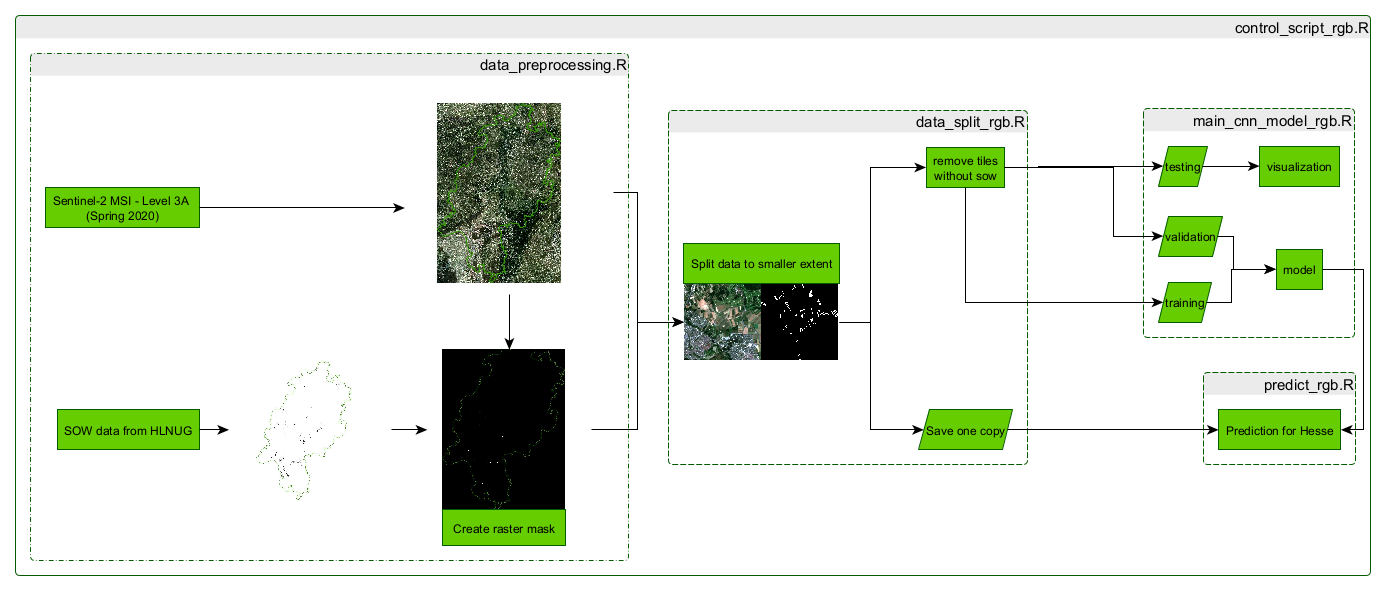
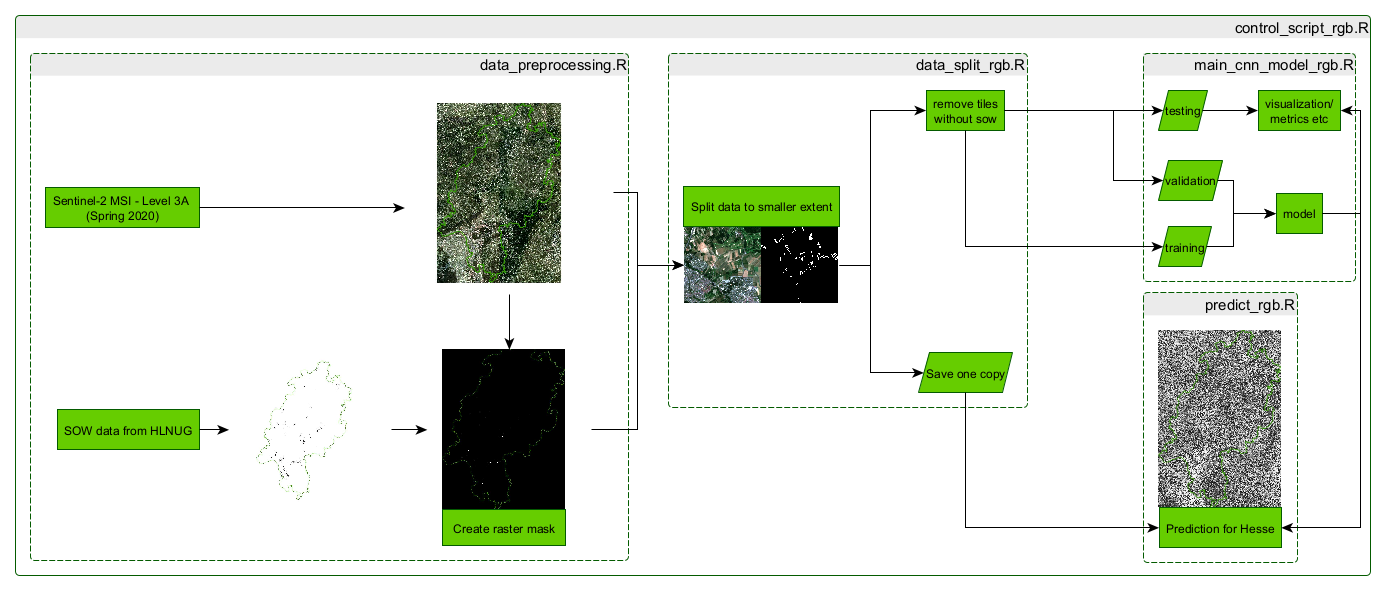
Improved readme & test

diff --git a/README.md b/README.md
@@ -1,7 +1,9 @@
 # Detection of traditional orchards meadows in Hesse, Germany via CNN & remote sensing data
-Attempt to detect traditional orchard meadows (ger. Streuosbtwiesen) 
+Attempt to detect traditional orchard meadows (ger. Streuosbtwiesen). Traditional orchard meadows are standard fruit trees scattered on a meadow, pasture or more rarely arable land. Characteristic fruit varieties are apple, pear, plum and sweet cherry. Today traditional orchard meadows are managed extensive and without fertilizers. Due to the composition of vigorous, young, old trees and deadwood traditional orchard meadows habitat for a wide variation of animals and plants. In the state of Hesse (Germany) these landscape elements or more specific traditional orchard meadows with uniquely attributes are sanctuary. 
 
-# To Do
+<img src="https://www.nabu.de/imperia/md/nabu/images/natur-landschaft/lebensraeume/wiesen-weiden/obstwiesen/151005-nabu-obstwiese-schoenbuch-hannes-huber4.jpeg" \>
+
+# To Do:
 - [] Comment all scripts
 - [] Sort out old parts
 - [] Add some more scripts
@@ -9,12 +11,6 @@ Attempt to detect traditional orchard meadows (ger. Streuosbtwiesen)
 - [] Write this documentation
 
 # Workflow
-
-
-<img src="/img_out/workflow.png" width="555" height="236" />
-
-
-<img src="/img_out/workflow.png" width="770" height="328" />
-
+Currently the workflow is divided into four "subscripts" which could be controlled by another script. This other script is used to set the parameter values and also which subscript is necessary for a specific task.
 <img src="/img_out/workflow.png" width="924" height="394" />
 
